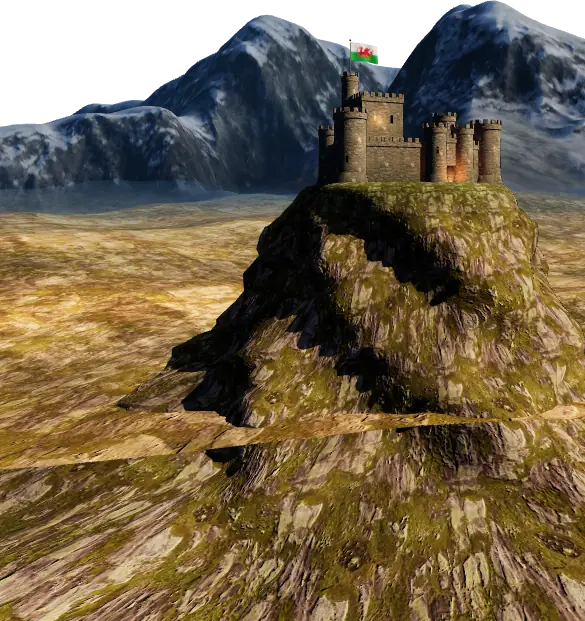
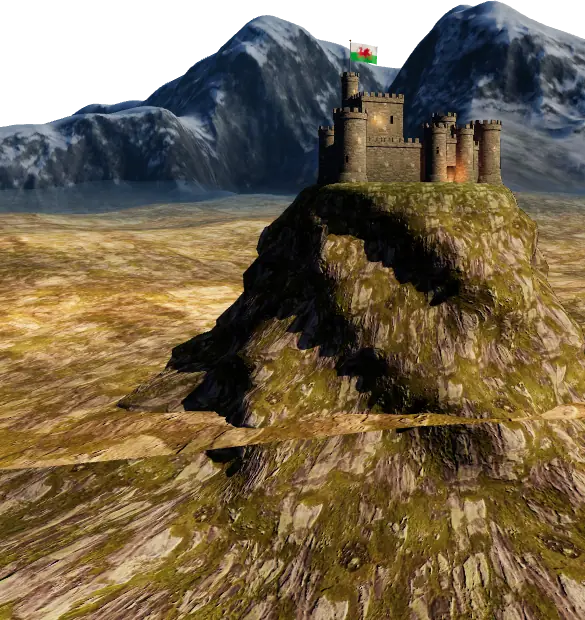
Hero: title line above Cymru removed, longer subline, ground reaches the mountains on wide screens
- History of Wales / Hanes Cymru line above the big Cymru removed (Ifan); Cymru and the rest move up
- Subline: fifteen centuries of kings and princes, saints and poets (English and Welsh)
- Wide screens: far moor tipped up (tilt 0.1) and darker daytime haze, so no flat grey sheet behind the castle
- Still pictures for slow connections made again; STILL_REF updated for the shorter hero

Claude-Session: https://claude.ai/code/session_01HQpyg8rLknSR8Q8VFDuTGp

diff --git a/src/app.js b/src/app.js
@@ -33,7 +33,7 @@
   var STILL_IMG = { land: null, dragon: null, ref: null };
   /* how the pictures were taken (tools: see SKILLS.md "Still pictures of the 3D land"): w = page width, d = pixels per CSS pixel,
      h = hero height, b = how far the bottom of the picture runs below the row of figures (p) or the hero's foot (w) */
-  var STILL_REF = { p: { w: 390, d: 1.5, h: 1077, b: 220 }, w: { w: 1440, d: 1.5, h: 952, b: 0 } };
+  var STILL_REF = { p: { w: 390, d: 1.5, h: 1040, b: 220 }, w: { w: 1440, d: 1.5, h: 868, b: 0 } };
   var MONTHS_EN = ["January","February","March","April","May","June","July","August","September","October","November","December"];
   var MONTHS_CY = ["Ionawr","Chwefror","Mawrth","Ebrill","Mai","Mehefin","Gorffennaf","Awst","Medi","Hydref","Tachwedd","Rhagfyr"];
 
@@ -152,10 +152,10 @@
     if (L3 || STILLP) {
       /* the valley mist the mountains rise out of, which also hides the stars below the skyline. It is dark at night and a soft blue
          haze by day: a light grey mist read as a flat grey sheet behind the castle at night (Ifan, 13 Nov 2026), so keep it dark. */
-      var vm = cx.createLinearGradient(0, eb - eh * 0.7, 0, H), mistC = mixHex(mixHex(SKY.sky[2], SKY.sky[1], 0.45), mixHex("#262b3d", "#56607c", SKY.sun), 0.7), vc = hex(mistC).join(",");
+      var vm = cx.createLinearGradient(0, eb - eh * 0.7, 0, H), mistC = mixHex(mixHex(SKY.sky[2], SKY.sky[1], 0.45), mixHex("#262b3d", "#444d68", SKY.sun), 0.7), vc = hex(mistC).join(",");
       vm.addColorStop(0, "rgba(" + vc + ",0)"); vm.addColorStop(0.34, "rgba(" + vc + ",.9)"); vm.addColorStop(0.55, "rgba(" + vc + ",1)"); vm.addColorStop(1, SKY.sky[3]); cx.fillStyle = vm; cx.fillRect(0, eb - eh * 0.7, W, H);
       if (!L3) drawStillLand(stacked); else {
-        if (!FLAG) FLAG = flagArt(); HCL3.frame({ W: W, H: H, sumX: sumX - ew * 0.13, sumY: sumY + ew * 0.15, ppm: ew / 2000, ground: stacked ? { x: W * 0.7, y: eb - eh * 0.07 - sy * 0.04, ppm: Math.min(W * 0.0095, eh * 0.019), tilt: narrow ? 0 : 0.12 } : { x: Math.min(W * 0.885, W - H * 0.3) - mouse * 9, y: H * 0.7 - sy * 0.1, ppm: H * 0.0098 }, castle: true, t: t, sun: SKY.sun, fog: mixHex(SKY.sky[2], SKY.sky[1], 0.45), mist: mistC, flag: FLAG, flagV: FLAGV });
+        if (!FLAG) FLAG = flagArt(); HCL3.frame({ W: W, H: H, sumX: sumX - ew * 0.13, sumY: sumY + ew * 0.15, ppm: ew / 2000, ground: stacked ? { x: W * 0.7, y: eb - eh * 0.07 - sy * 0.04, ppm: Math.min(W * 0.0095, eh * 0.019), tilt: narrow ? 0 : 0.12 } : { x: Math.min(W * 0.885, W - H * 0.3) - mouse * 9, y: H * 0.7 - sy * 0.1, ppm: H * 0.0098, tilt: 0.1 }, castle: true, t: t, sun: SKY.sun, fog: mixHex(SKY.sky[2], SKY.sky[1], 0.45), mist: mistC, flag: FLAG, flagV: FLAGV });
         if (HCL3.shown && !LANDT) LANDT = t; }
     }
     LAYERS.forEach(function (L, i) {

diff --git a/src/head.html b/src/head.html
@@ -92,9 +92,7 @@ button { font: inherit; color: inherit }
 #land3d { opacity: 0; transition: opacity 1.6s ease; -webkit-mask-image: linear-gradient(#000 78%, transparent 99%); mask-image: linear-gradient(#000 78%, transparent 99%) }
 .hero .wrap { padding-block: clamp(2.5rem, 7vw, 5.5rem) clamp(10rem, 22vw, 16rem) }
 .hero h1 { font-size: clamp(4.2rem, 17vw, 13.5rem); line-height: .86; letter-spacing: -.02em; display: flex; flex-wrap: wrap; margin-left: -.035em }
-.hero .hero-name { font-family: var(--f-display); font-size: clamp(1.75rem, 5.4vw, 4rem); line-height: 1; margin: 0 0 .75em; letter-spacing: -.01em }
-.hero .hero-name .w { display: inline-block; white-space: nowrap } .hero .hero-name .w + .w + .w { margin-left: .03em }
-.hero h1 span, .hero .hero-name b { font-weight: inherit; display: inline-block; animation: rise 1.1s cubic-bezier(.2,.7,.1,1) both; animation-delay: calc(var(--i) * 70ms + 150ms) }
+.hero h1 span { font-weight: inherit; display: inline-block; animation: rise 1.1s cubic-bezier(.2,.7,.1,1) both; animation-delay: calc(var(--i) * 70ms + 150ms) }
 .hero h1 .y { color: #e2453d }
 /* letters fade in while they drop. "Cymru" is so big that it drops a shorter way, so it never touches the name above it */
 @keyframes rise { from { transform: translateY(var(--rise, -.4em)); opacity: 0 } to { transform: none; opacity: 1 } }
@@ -327,7 +325,7 @@ __NAV__
     <h1 aria-label="Cymru: the history of Wales"><em class="sr-only">The history of Wales: </em><span style="--i:0">C</span><span class="y" style="--i:1">y</span><span style="--i:2">m</span><span style="--i:3">r</span><span style="--i:4">u</span></h1>
     <div class="sub">
       <p class="tag"><span data-cy="Gwlad y brenhinoedd, y tywysogion, y cestyll, y beirdd a’r seintiau.">A land of kings, princes, castles, poets, and saints.</span> <span data-cy="Wedi’i chodi ar lo, llechi, haearn, copr a gwlân.">Built on coal, slate, iron, copper, and wool.</span></p>
-      <p data-cy="Iaith fyw hynaf Prydain, mil o flynyddoedd o dywysogion a beirdd, a chenedl sydd yma o hyd.">The oldest living language in Britain, a thousand years of princes and poets, and a nation that is still here.</p>
+      <p data-cy="Iaith fyw hynaf Prydain, pymtheg canrif o frenhinoedd a thywysogion, seintiau a beirdd, a chenedl sydd yma o hyd.">The oldest living language in Britain, fifteen centuries of kings and princes, saints and poets, and a nation that is still here.</p>
     </div>
     <!-- three clear ways in for a first-time visitor (Ifan, 2026-11-12); the daily features are further down the page -->
     <nav class="begin" aria-labelledby="begin-h">

diff --git a/src/v6.css b/src/v6.css
@@ -92,11 +92,11 @@ html.menu-open { overflow: hidden }
 /* the room left under the words is for the mountains; the row of figures must not inherit it, or an empty gap opens above the moving words */
 .hero .ticker .wrap { padding-block: 1rem 1.9rem }
 /* a glint of light crossing "Cymru", letter by letter, then again every so often */
-.hero h1 span, .hero .hero-name b { --k: #ece9e1; padding-block: .14em .2em; margin-block: -.14em -.2em; background: linear-gradient(100deg, var(--k) 38%, #ffe2a6 50%, var(--k) 62%) 100% 0 / 400% 100% no-repeat, var(--k); -webkit-background-clip: text; background-clip: text; -webkit-text-fill-color: transparent;
+.hero h1 span { --k: #ece9e1; padding-block: .14em .2em; margin-block: -.14em -.2em; background: linear-gradient(100deg, var(--k) 38%, #ffe2a6 50%, var(--k) 62%) 100% 0 / 400% 100% no-repeat, var(--k); -webkit-background-clip: text; background-clip: text; -webkit-text-fill-color: transparent;
   animation: rise 1.1s cubic-bezier(.2,.7,.1,1) both, glint 9s linear infinite; animation-delay: calc(var(--i) * 70ms + 150ms), calc(var(--i) * 110ms + 1500ms) }
 .hero h1 .y { --k: #e2453d }
 @keyframes glint { 0% { background-position: 100% 0, 0 0 } 14%, 100% { background-position: 0% 0, 0 0 } }
-@media (prefers-reduced-motion: reduce) { .hero h1 span, .hero .hero-name b { animation: none } }
+@media (prefers-reduced-motion: reduce) { .hero h1 span { animation: none } }
 /* the words under the title follow it in, one after the other */
 .hero .sub p, .hero .scroll-cue { animation: h-in .9s var(--ease, ease) both }
 .hero .sub p:first-child { animation-delay: .9s } .hero .sub p + p { animation-delay: 1.1s } .hero .scroll-cue { animation-delay: 2.4s }

diff --git a/build.py b/build.py
@@ -4042,18 +4042,9 @@ MARQUEE = "".join(f'<a href="{u}" draggable="false">{bi(a, b)}</a><i aria-hidden
     "".join(f'<a href="{u}" draggable="false" tabindex="-1" aria-hidden="true">{bi(a, b)}</a><i aria-hidden="true">✦</i>' for a, b, u in MARQ)
 
 
-def _letters(text):
-    """Each letter in its own box so the opening words can drop in and glint one by one, like "Cymru"."""
-    out, i = [], 0
-    for w in text.split(" "):
-        out.append('<span class="w">' + "".join(f'<b style="--i:{i + k}">{e(ch)}</b>' for k, ch in enumerate(w)) + "</span>")
-        i += len(w)
-    return " ".join(out)
-
-
-# the letters are hidden from screen readers, which hear the name once, whole (an aria-label on a <span> is ignored)
-HERO_NAME = (f'<p class="hero-name"><span class="l-en" lang="en"><span class="sr-only">History of Wales</span><span aria-hidden="true">{_letters("History of Wales")}</span></span>'
-             f'<span class="l-cy" lang="cy"><span class="sr-only">Hanes Cymru</span><span aria-hidden="true">{_letters("Hanes Cymru")}</span></span></p>')
+# The "History of Wales" / "Hanes Cymru" line above the big Cymru was removed at Ifan's request (14 Nov 2026); the logo and the
+# h1's label still name the site.
+HERO_NAME = ""
 
 
 def fill(fragment, active="", skip="#chapters", home=False):

diff --git a/SKILLS.md b/SKILLS.md
@@ -465,7 +465,7 @@ The dragon that flies across the opening screen is a real 3D model with a skelet
 
 Behind the dragon, the mountains, the moor and the castle are real 3D too, drawn on a second see-through canvas (`#land3d`) between the painted sky and the dragon. The code is `tools/land3d.src.js`.
 
-- **The mountains are Yr Wyddfa and its horseshoe, from real height data**, seen from the Capel Curig side. `tools/eryri_heights.py` downloads the height tiles; `tools/bake_eryri.py` turns them into three files in `src/static/`: `eryri-h.png` (heights), `eryri-c.webp` (colour: grass, scree, rock, snow) and `eryri-n.webp` (fine relief for the light). The survey data is smooth, so the script sharpens it and adds crag detail on steep, high ground, and heights are drawn 1.3 times taller. The feet of the mountains are tinted to the colour of the valley mist, so that the range rises out of it (the mist is painted on the 2D canvas, and its colour is passed to the 3D code as `mist`). Keep the mist dark at night: a light grey mist showed as a big flat grey sheet behind the castle (Ifan, 13 November 2026), so `mistC` in `draw()` mixes toward dark slate at night and a soft blue haze by day (`SKY.sun`). Extending the moor farther back does not hide it: the far moor takes the castle scene's fog colour, which is red at dusk. After changing the mist colour, make the still pictures (`hero-land-*.webp`) again, because the mountain feet carry it. **Between 640 and 1100 pixels wide** (tablets, and phones set to "desktop site") the castle stands near the foot of the opening screen, well below the mountains' feet, and the flat moor did not reach up to them, leaving a flat grey sheet (Ifan, 13 November 2026). There `ground.tilt` (0.12 radians, from `draw()` in `src/app.js`) tips the far side of the moor up in `HCL3.frame()` so it rises to meet the mountains. Test that layout with a 980 pixel wide window. Never make ground see-through or cut it away: the red glow of the sky then shows through the hole as a red blob. The one hill that stood too close to the eye is levelled into the valley floor in `buildLand` instead.
+- **The mountains are Yr Wyddfa and its horseshoe, from real height data**, seen from the Capel Curig side. `tools/eryri_heights.py` downloads the height tiles; `tools/bake_eryri.py` turns them into three files in `src/static/`: `eryri-h.png` (heights), `eryri-c.webp` (colour: grass, scree, rock, snow) and `eryri-n.webp` (fine relief for the light). The survey data is smooth, so the script sharpens it and adds crag detail on steep, high ground, and heights are drawn 1.3 times taller. The feet of the mountains are tinted to the colour of the valley mist, so that the range rises out of it (the mist is painted on the 2D canvas, and its colour is passed to the 3D code as `mist`). Keep the mist dark at night: a light grey mist showed as a big flat grey sheet behind the castle (Ifan, 13 November 2026), so `mistC` in `draw()` mixes toward dark slate at night and a soft blue haze by day (`SKY.sun`). Extending the moor farther back does not hide it: the far moor takes the castle scene's fog colour, which is red at dusk. After changing the mist colour, make the still pictures (`hero-land-*.webp`) again, because the mountain feet carry it. **Between 640 and 1100 pixels wide** (tablets, and phones set to "desktop site") the castle stands near the foot of the opening screen, well below the mountains' feet, and the flat moor did not reach up to them, leaving a flat grey sheet (Ifan, 13 November 2026). There `ground.tilt` (0.12 radians, from `draw()` in `src/app.js`) tips the far side of the moor up in `HCL3.frame()` so it rises to meet the mountains. Test that layout with a 980 pixel wide window. Wide screens use tilt 0.1 too (Ifan still saw the daytime haze as a grey sheet on a 2250 pixel wide PC, 14 November 2026), and the daytime mist is a darker blue (`#444d68`). Never make ground see-through or cut it away: the red glow of the sky then shows through the hole as a red blob. The one hill that stood too close to the eye is levelled into the valley floor in `buildLand` instead.
 - **What makes the mountains look real.** Four things, found by trial: (1) the moon lights them from the side (`moonL` in `tools/land3d.src.js`), and the bake casts real shadows from the ridges for that same direction (`LIGHT` in `tools/bake_eryri.py`): the two must always match, so change both together and bake again; (2) the bake carves gullies where water would gather (flow down the real heights, with noise added so streams wander: without the noise they run in ruled lines); (3) colour is laid by what the ground is (grass and heather low down, scree, bare rock where it is steep, snow where it can lie); (4) the crags are a real photograph of rock (`rock.webp`) laid on steep ground from the side by the shader. Laying a picture on cliffs from above smears it into streaks, and drawing regular ledges into the heights gives fingerprint lines, so do neither.
 - **The castle shows on every screen.** On phones and tall windows it stands on its crag at the foot of the mountains, in the strip below the buttons, with the moor in front, so they read as one scene (`ground` in `draw()` in `src/app.js`).
 - **Stars are soft glowing points, never plus signs.** `STAR` in `src/app.js` paints one glowing star in three tints (white, blue-white, warm) and the sky stamps it at varied sizes with a gentle twinkle.
@@ -912,4 +912,4 @@ Learnt while writing the Druids long read (`src/druids.py`, `story-druids.html`)
 
 - Ifan sends a screenshot plus a short note, and each change is made, checked and published within minutes.
 - Small visual tweaks are published one at a time so each can be seen live.
-- **Hero and logo spacing (Ifan, 13 November 2026).** The small "History of Wales" / "Hanes Cymru" line sits .75em above the big Cymru (`.hero .hero-name` in `src/head.html`); the big Cymru has `margin-left: -.035em` so the C's edge lines up with the H above (the C has a wide side bearing in Gloock). Ifan wants the gaps between the words even. Gloock leaves a wide gap after "History" and sets the f of "of" almost against the W of "Wales", so the logo (`BRAND` in `build.py`) nudges "of" (.05em) and "Wales" (.2em) with spans (`.brand .b-of`, `.brand .b-wales` in `src/v6.css`); the hero name uses plain spaces with "Wales" nudged .03em (`.hero .hero-name .w + .w + .w` in `src/head.html`). Measure gaps from a screenshot (columns with no ink), not by eye.
+- **Hero and logo spacing (Ifan, 13 November 2026).** The small "History of Wales" / "Hanes Cymru" line above the big Cymru was removed on 14 November 2026 at Ifan's request (`HERO_NAME` in `build.py` is empty); don't put it back without asking. The big Cymru has `margin-left: -.035em` so the C's edge lines up with the H above (the C has a wide side bearing in Gloock). Ifan wants the gaps between the words even. Gloock leaves a wide gap after "History" and sets the f of "of" almost against the W of "Wales", so the logo (`BRAND` in `build.py`) nudges "of" (.05em) and "Wales" (.2em) with spans (`.brand .b-of`, `.brand .b-wales` in `src/v6.css`). Measure gaps from a screenshot (columns with no ink), not by eye.
